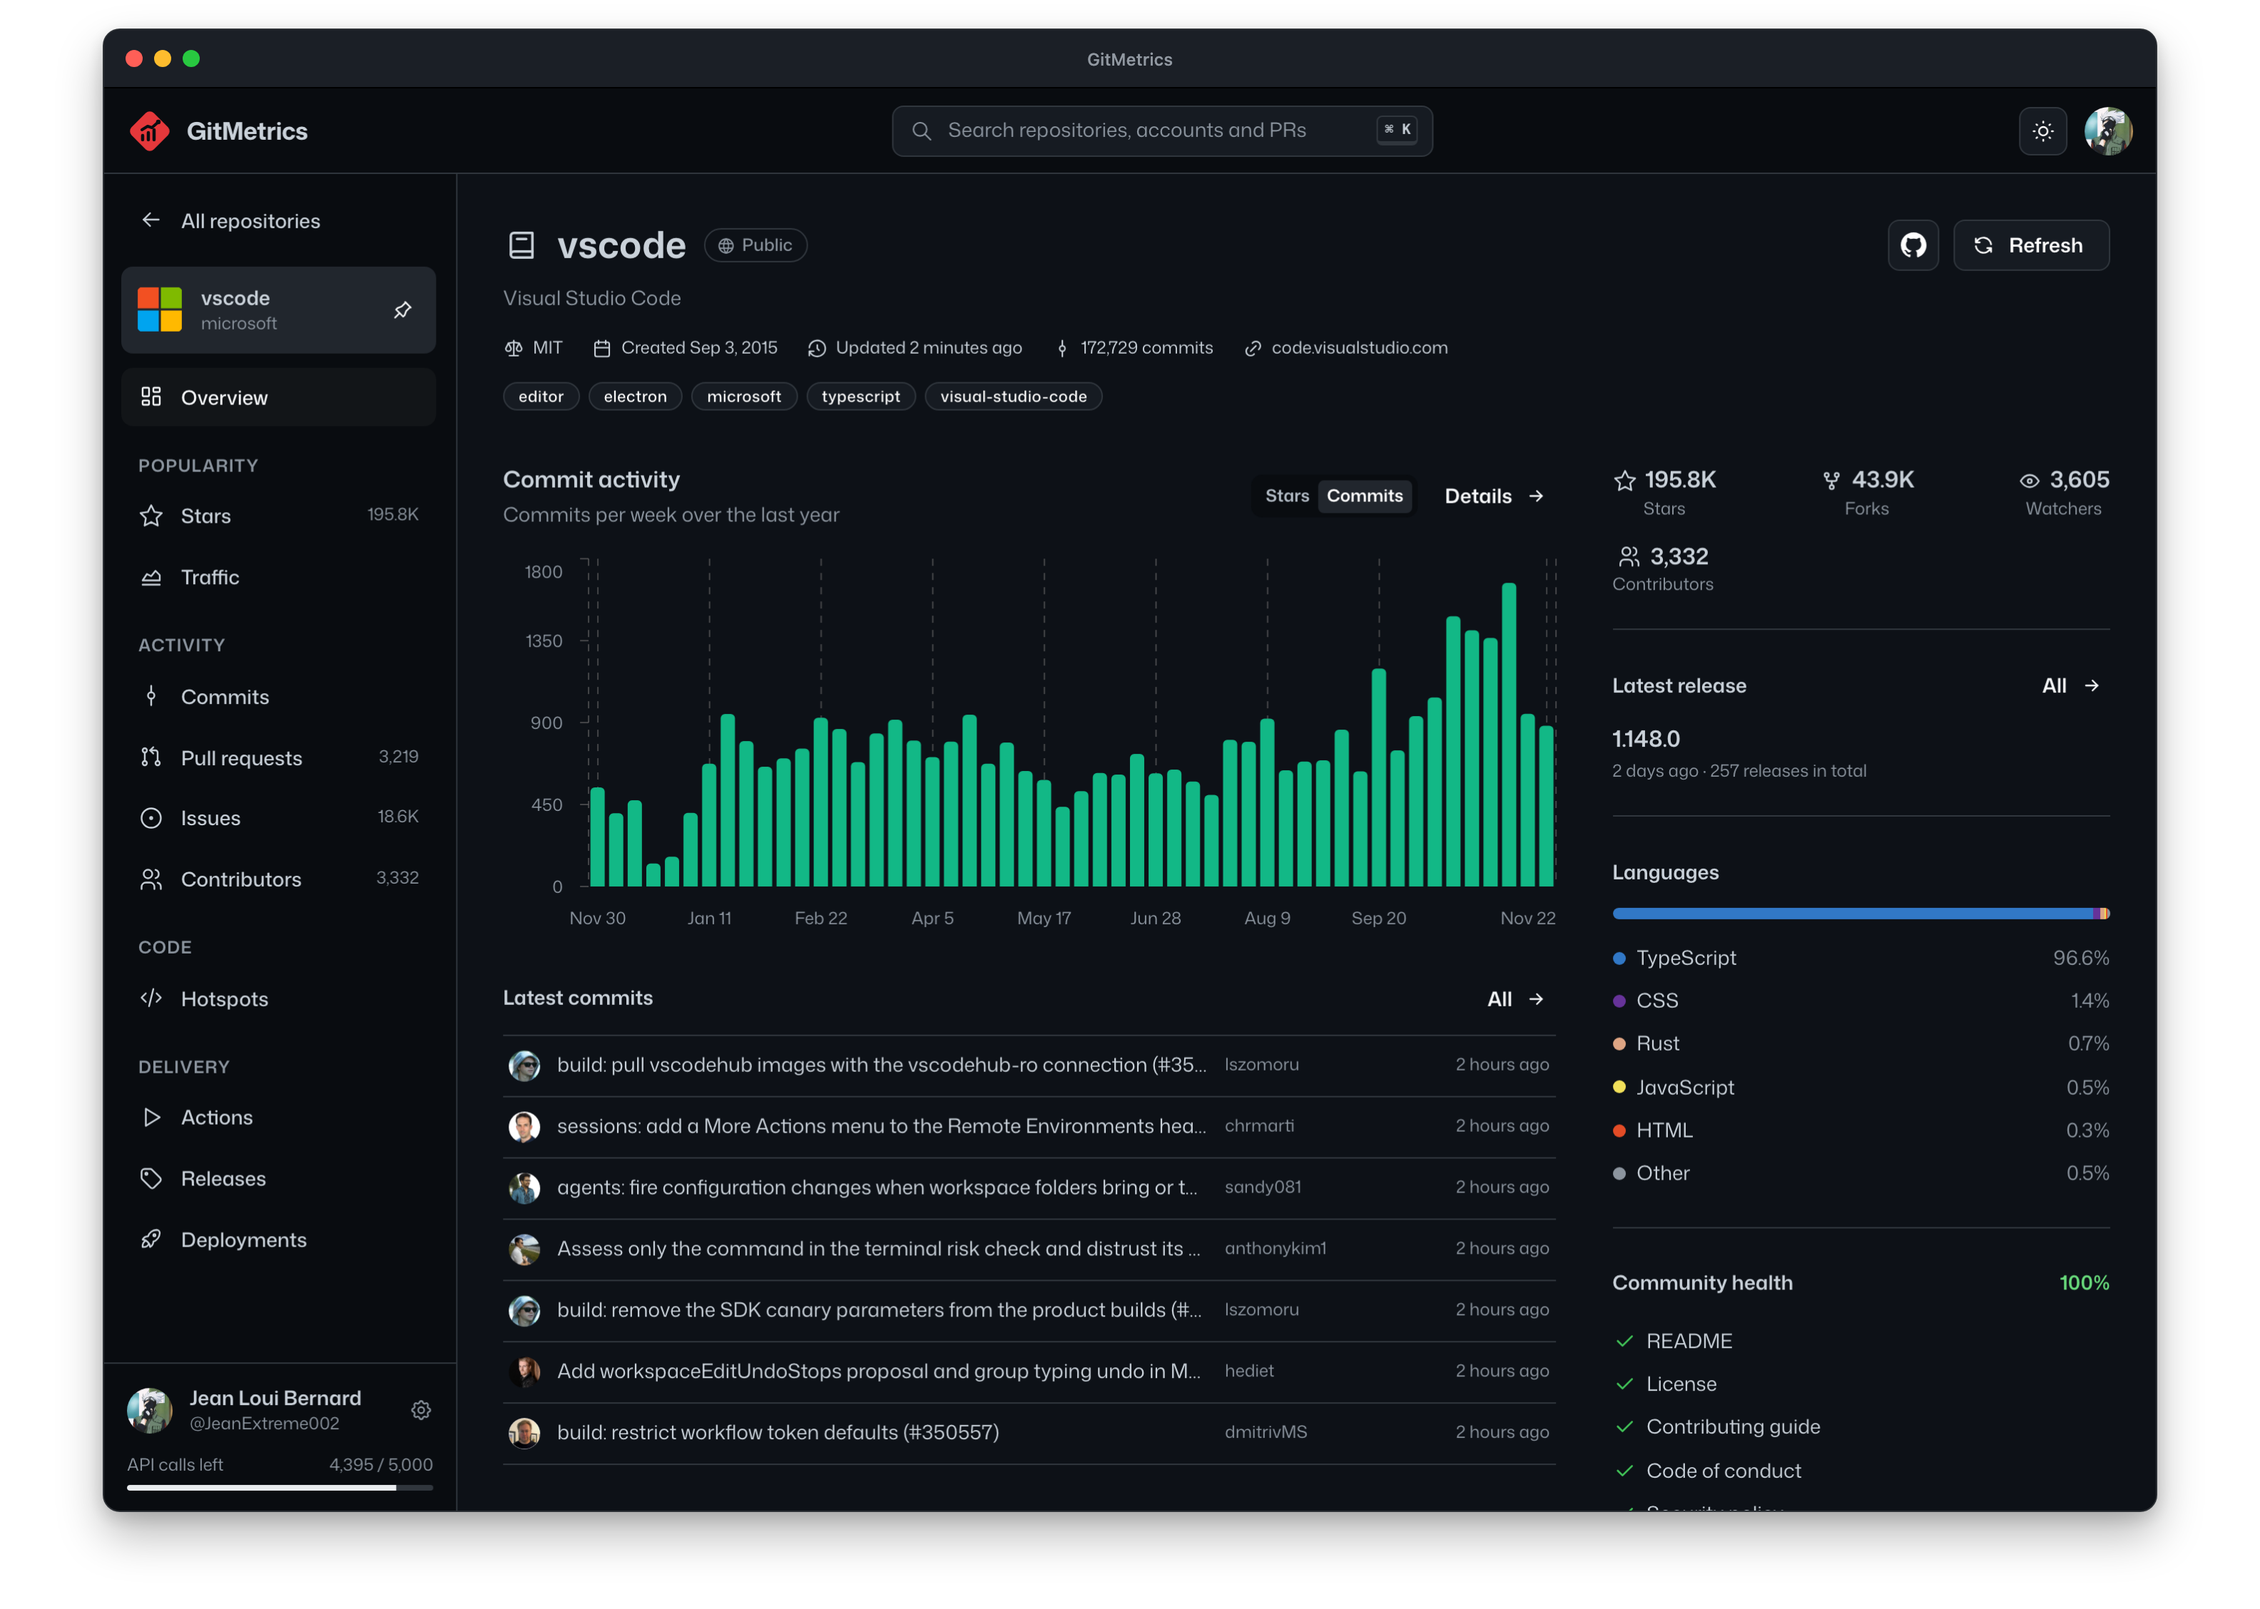
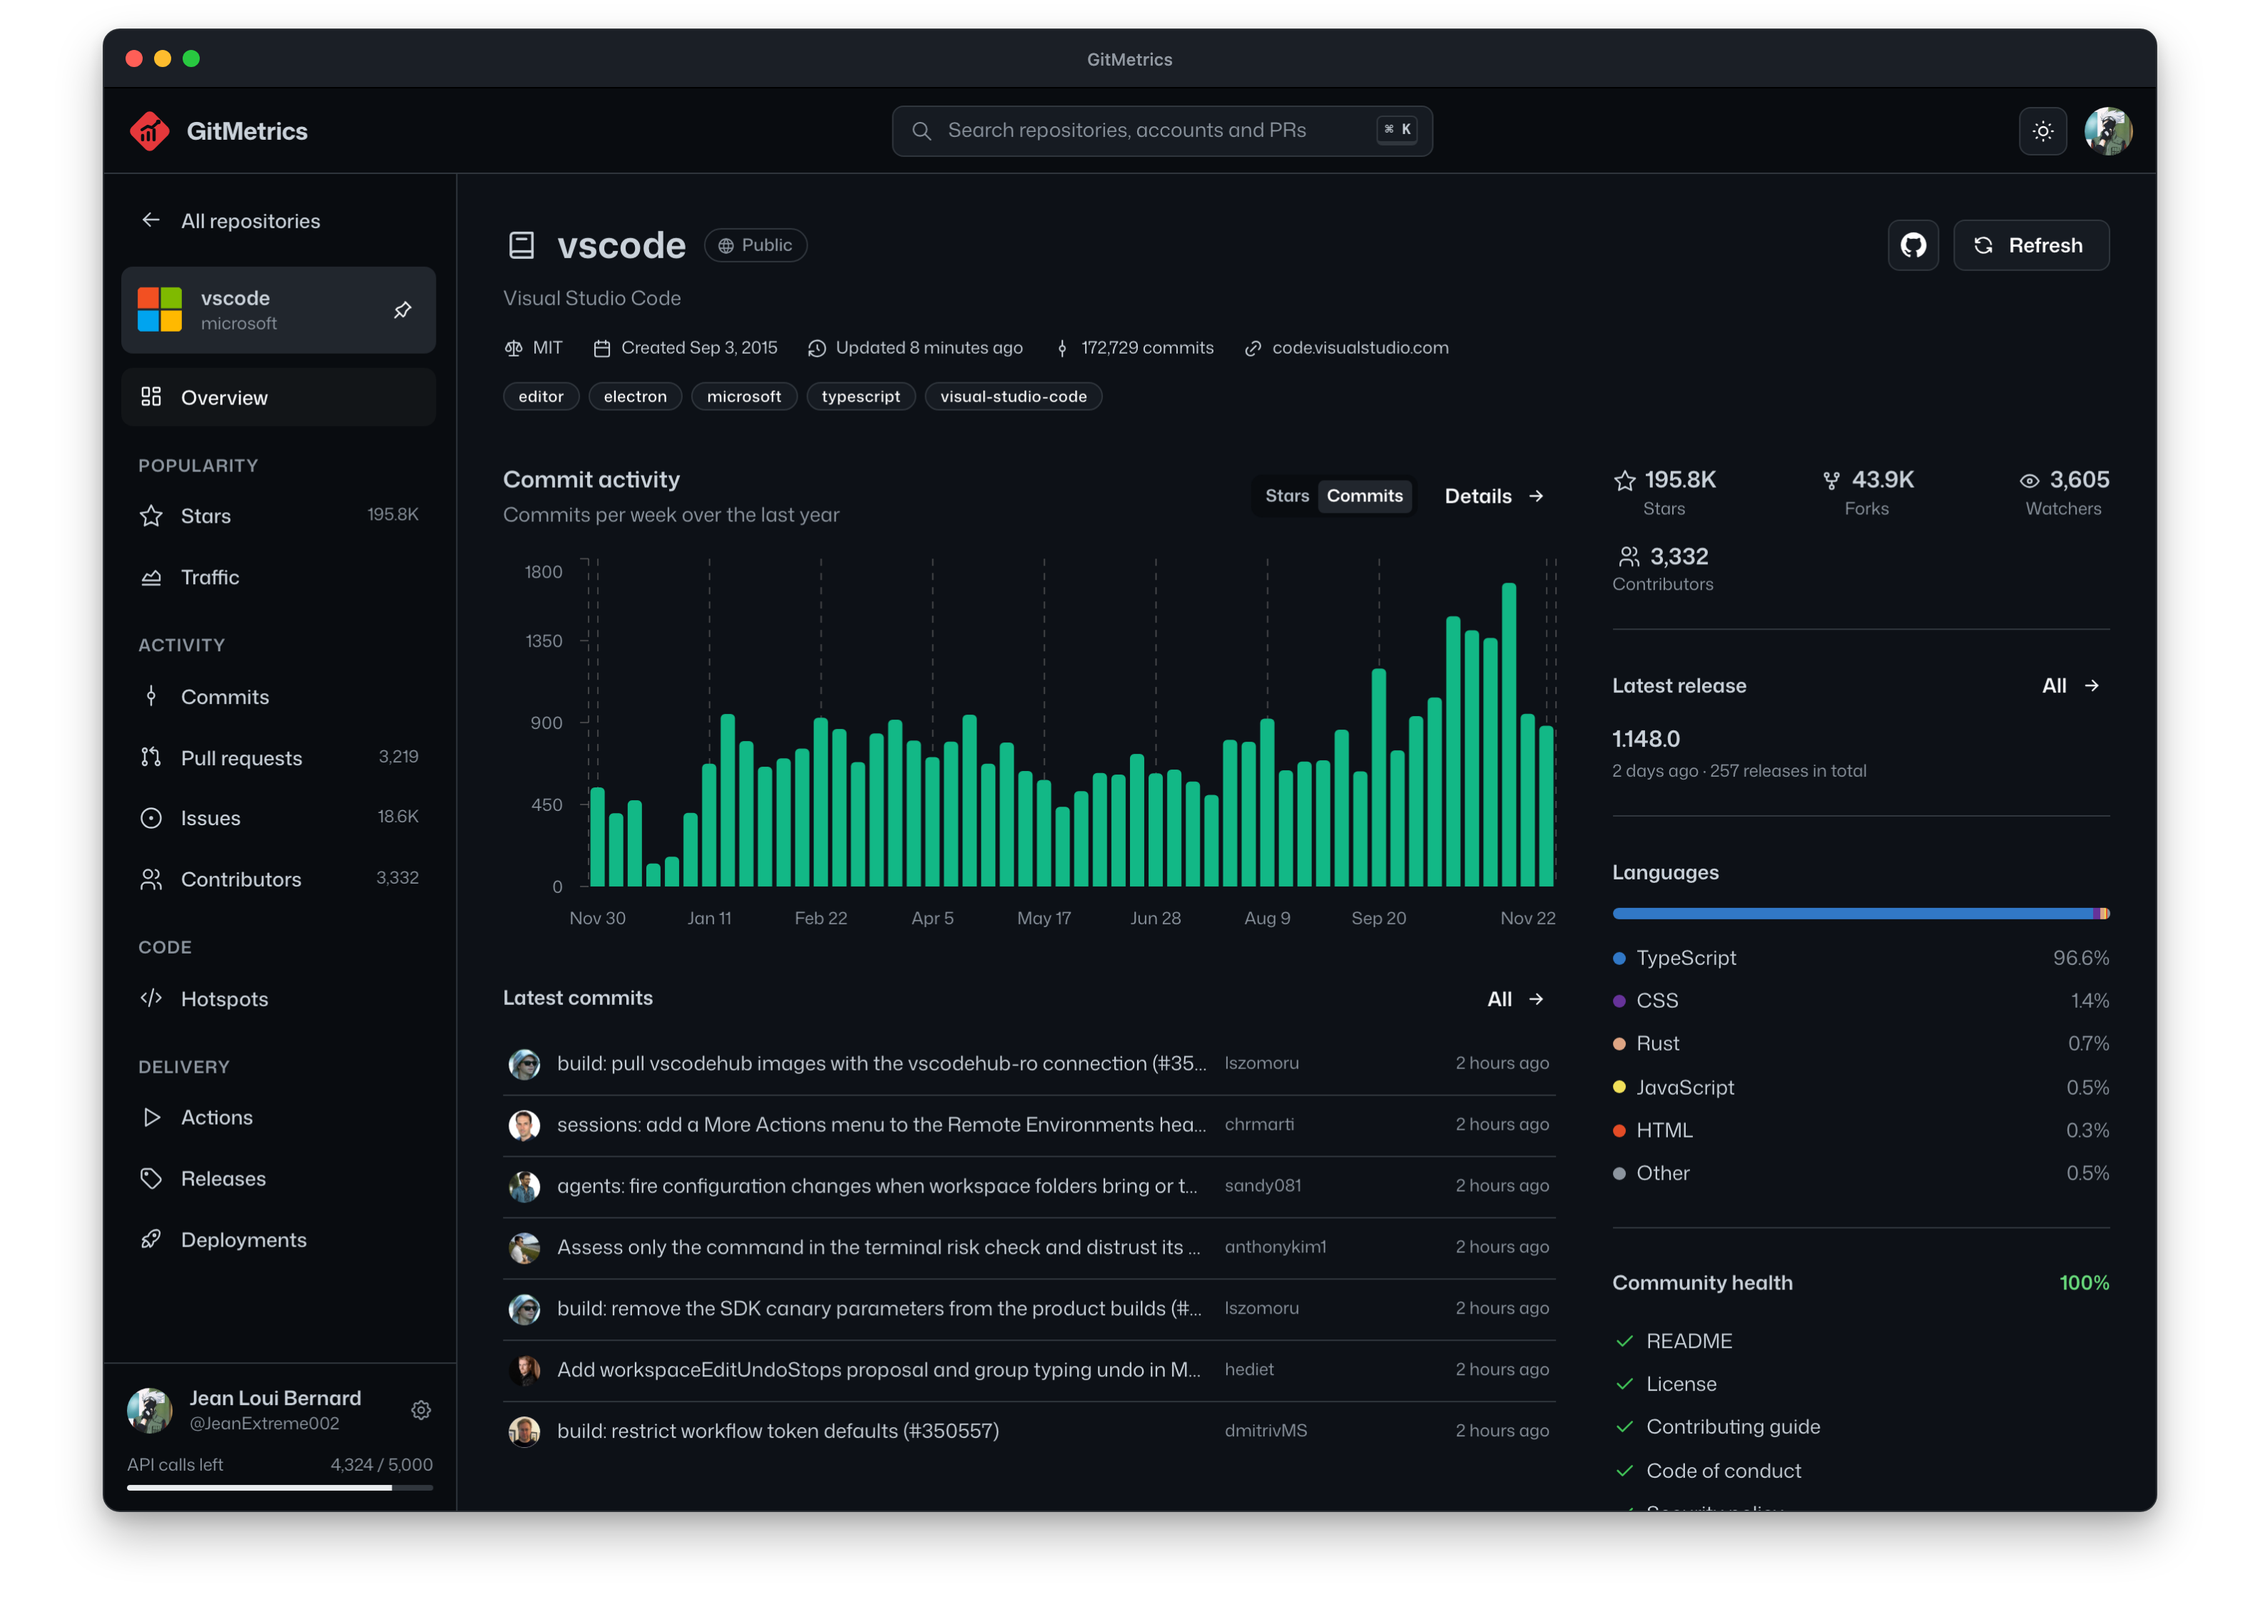
style: no lines at the ends of a repository's latest commits
And the screenshots, regenerated to show it.

diff --git a/src/web/pages/repo/Overview.tsx b/src/web/pages/repo/Overview.tsx
@@ -268,7 +268,7 @@ function LatestCommits() {
         </Text>
         <DetailsLink to="commits" label="All" />
       </Group>
-      <div className="rank-list">
+      <div className="rank-list lines-between">
         {data.recent.slice(0, 7).map((c) => (
           <Anchor
             key={c.sha}
